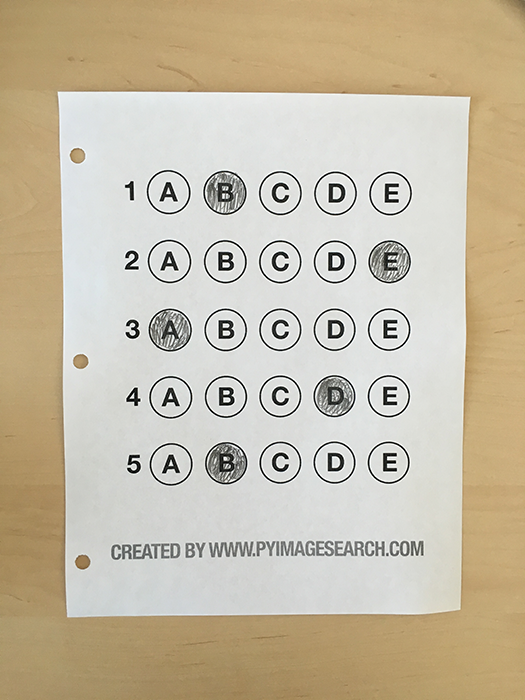
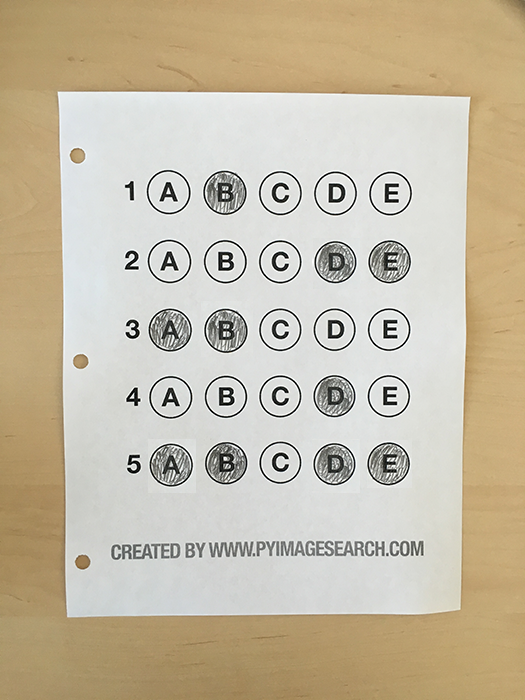
update multipleChoice

diff --git a/src/com/cv/DetectObject/MultipleChoice/test_grader.py b/src/com/cv/DetectObject/MultipleChoice/test_grader.py
@@ -11,18 +11,18 @@ from src.com.cv.SortContours.SortingContours import sort_contours
 
 # define the answer key which maps the question number to the correct answer
 # Question #1: B
-# Question #2: E
-# Question #3: A
-# Question #4: D
+# Question #2: D, E
+# Question #3: A, D, E
+# Question #4: A, D
 # Question #5: B
-ANSWER_KEY = {0: 1, 1: 3, 2: 0, 3: 3, 4: 1}
+ANSWER_KEY = {0: [1], 1: [3, 4], 2: [0, 3, 4], 3: [0, 3], 4: [1]}
 
 # init the number of correct user answers
 user_correct_answers_number = 0
 
 # load the image
 image_path = "images/"
-original_image = cv2.imread(image_path + "test_01.png")
+original_image = cv2.imread(image_path + "test_05.png")
 # show original image
 window_name = 'Original Image'
 cv2.imshow(window_name, original_image)
@@ -227,7 +227,7 @@ for (question_number, first_answer_index) in enumerate(np.arange(0, total_number
     plt.show()
 
     # initialize the index of the user answer
-    user_answer = None
+    user_answers = []
 
     # loop over the each answer contours
     for (answer_number, answer_contour) in enumerate(current_question_contours):
@@ -259,24 +259,36 @@ for (question_number, first_answer_index) in enumerate(np.arange(0, total_number
         non_zero_pixel_amount = cv2.countNonZero(answer_contour_image)
         print("non-zero pixel amount: ", non_zero_pixel_amount)
 
-        # if the current total has a larger number of total non-zero pixels
-        # then we are examining the currently bubbled-in answer
-        if user_answer is None or non_zero_pixel_amount > user_answer[0]:
-            user_answer = (non_zero_pixel_amount, answer_number)
+        # nếu contour > 450 thì sẽ xác định là user chọn đáp án này
+        if non_zero_pixel_amount > 650:
+            answer = (answer_number, answer_contour)
+            # user_answer = (non_zero_pixel_amount, answer_number)
+            user_answers.append(answer)
 
-    # initialize the index of the correct answer
-    correct_answer_index = ANSWER_KEY[question_number]
+    # initialize the index of the correct answers
+    correct_answer_indexs = ANSWER_KEY[question_number]
+
+    # init user answer index
+    user_answer_indexs = []
+    for user_answer in user_answers:
+        user_answer_indexs.append(user_answer[0])
+    print("user answer: ", user_answer_indexs)
 
     # check to see if the user answer is correct
-    if correct_answer_index == user_answer[1]:
+    if correct_answer_indexs == user_answer_indexs:
         color = (0, 255, 0)  # green
         user_correct_answers_number += 1
     else:
         # the user answer is incorrect
         color = (0, 0, 255)  # red
 
+    # init answer contours
+    answer_contours = []
+    for i in correct_answer_indexs:
+        answer_contours.append(current_question_contours[i])
+
     # draw the outline of the correct answer on the test
-    cv2.drawContours(marking_image, [current_question_contours[correct_answer_index]], -1, color, 3)
+    cv2.drawContours(marking_image, answer_contours, -1, color, 3)
     # show Result each Question Image
     window_name = 'Question ' + str((question_number + 1)) + ' Marking Image'
     cv2.imshow(window_name, marking_image)
